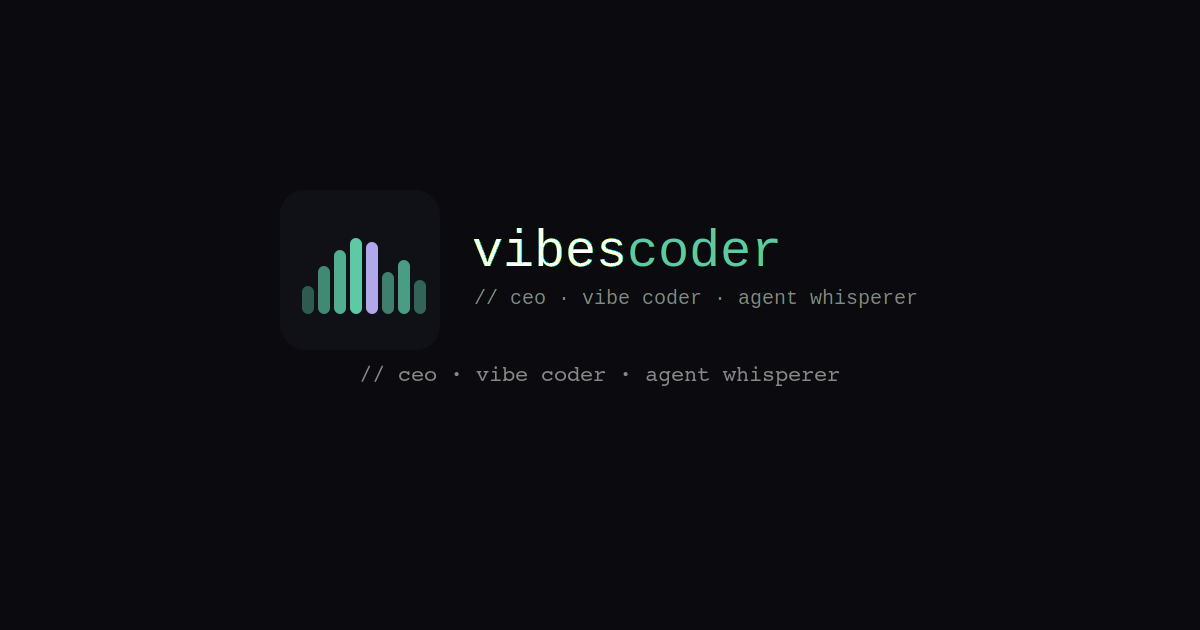
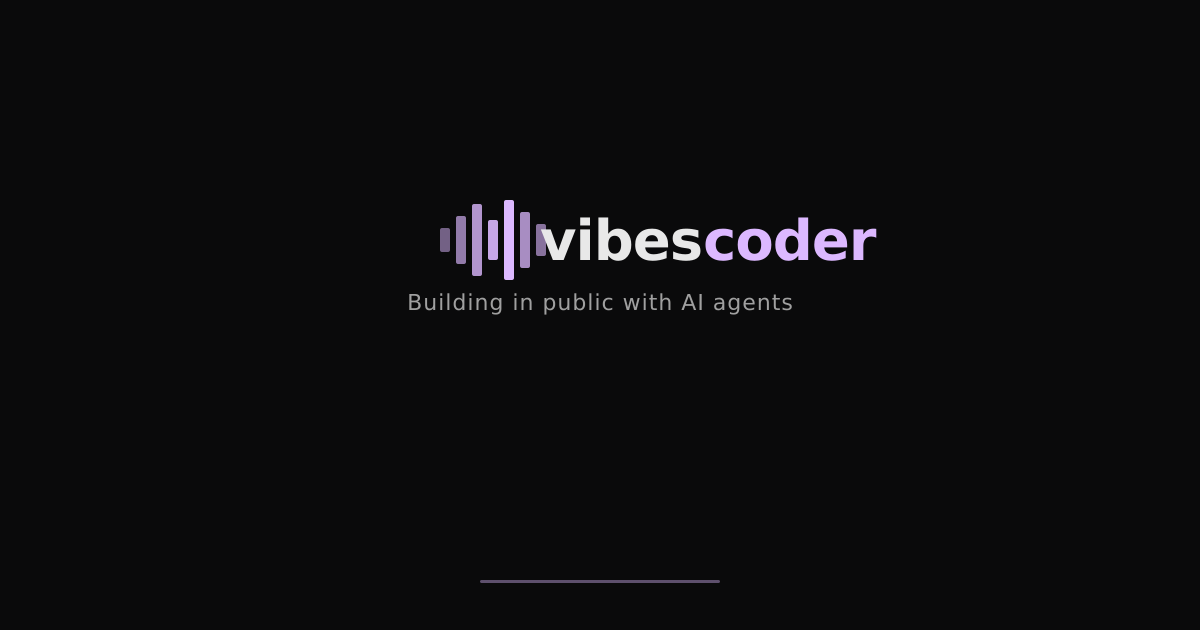
fix: update social metadata and OG image for new branding
- Post pages now emit their own og:title, og:description, og:url,
  og:type, and twitter:card metadata so Slack/Twitter previews show
  the post title and description instead of falling back to site
  defaults.
- Updated all site-wide metadata from 'Vibes Coder' to 'vibescoder'
  to match the current header branding.
- Regenerated opengraph-image.png with purple waveform, updated
  wordmark, and new tagline.

🤖 Generated with Coder Agents

diff --git a/src/app/layout.tsx b/src/app/layout.tsx
@@ -26,23 +26,23 @@ const firaCode = Fira_Code({
 
 export const metadata: Metadata = {
   title: {
-    default: "Vibes Coder",
-    template: "%s | Vibes Coder",
+    default: "vibescoder",
+    template: "%s | vibescoder",
   },
   description:
-    "Vibe coder. Dangerous coder. CEO of Coder. Thoughts are my own. Err… mine and my agent's.",
+    "Building in public with AI agents. CEO of Coder.",
   metadataBase: new URL("https://vibescoder.dev"),
   openGraph: {
-    title: "Vibes Coder",
-    description: "Vibe coder. Dangerous coder. CEO of Coder. Thoughts are my own. Err… mine and my agent's.",
+    title: "vibescoder",
+    description: "Building in public with AI agents. CEO of Coder.",
     url: "https://vibescoder.dev",
-    siteName: "Vibes Coder",
+    siteName: "vibescoder",
     type: "website",
   },
   twitter: {
     card: "summary_large_image",
-    title: "Vibes Coder",
-    description: "Vibe coder. Dangerous coder. CEO of Coder. Thoughts are my own. Err… mine and my agent's.",
+    title: "vibescoder",
+    description: "Building in public with AI agents. CEO of Coder.",
   },
   icons: {
     icon: [
@@ -69,7 +69,7 @@ export default function RootLayout({
     >
       <head>
         <script dangerouslySetInnerHTML={{ __html: themeScript }} />
-        <link rel="alternate" type="application/rss+xml" title="Vibes Coder RSS Feed" href="/feed.xml" />
+        <link rel="alternate" type="application/rss+xml" title="vibescoder RSS Feed" href="/feed.xml" />
       </head>
       <body className="min-h-screen flex flex-col antialiased">
         <Header />

diff --git a/src/app/posts/[slug]/page.tsx b/src/app/posts/[slug]/page.tsx
@@ -30,7 +30,22 @@ export async function generateMetadata({ params }: PostPageProps) {
   const { slug } = await params;
   const post = await getPostBySlug(slug);
   if (!post) return { title: "Post Not Found" };
-  return { title: post.title, description: post.description };
+  return {
+    title: post.title,
+    description: post.description,
+    openGraph: {
+      title: post.title,
+      description: post.description,
+      url: `https://vibescoder.dev/posts/${slug}`,
+      type: "article",
+      publishedTime: post.date,
+    },
+    twitter: {
+      card: "summary_large_image",
+      title: post.title,
+      description: post.description,
+    },
+  };
 }
 
 export default async function PostPage({ params }: PostPageProps) {
